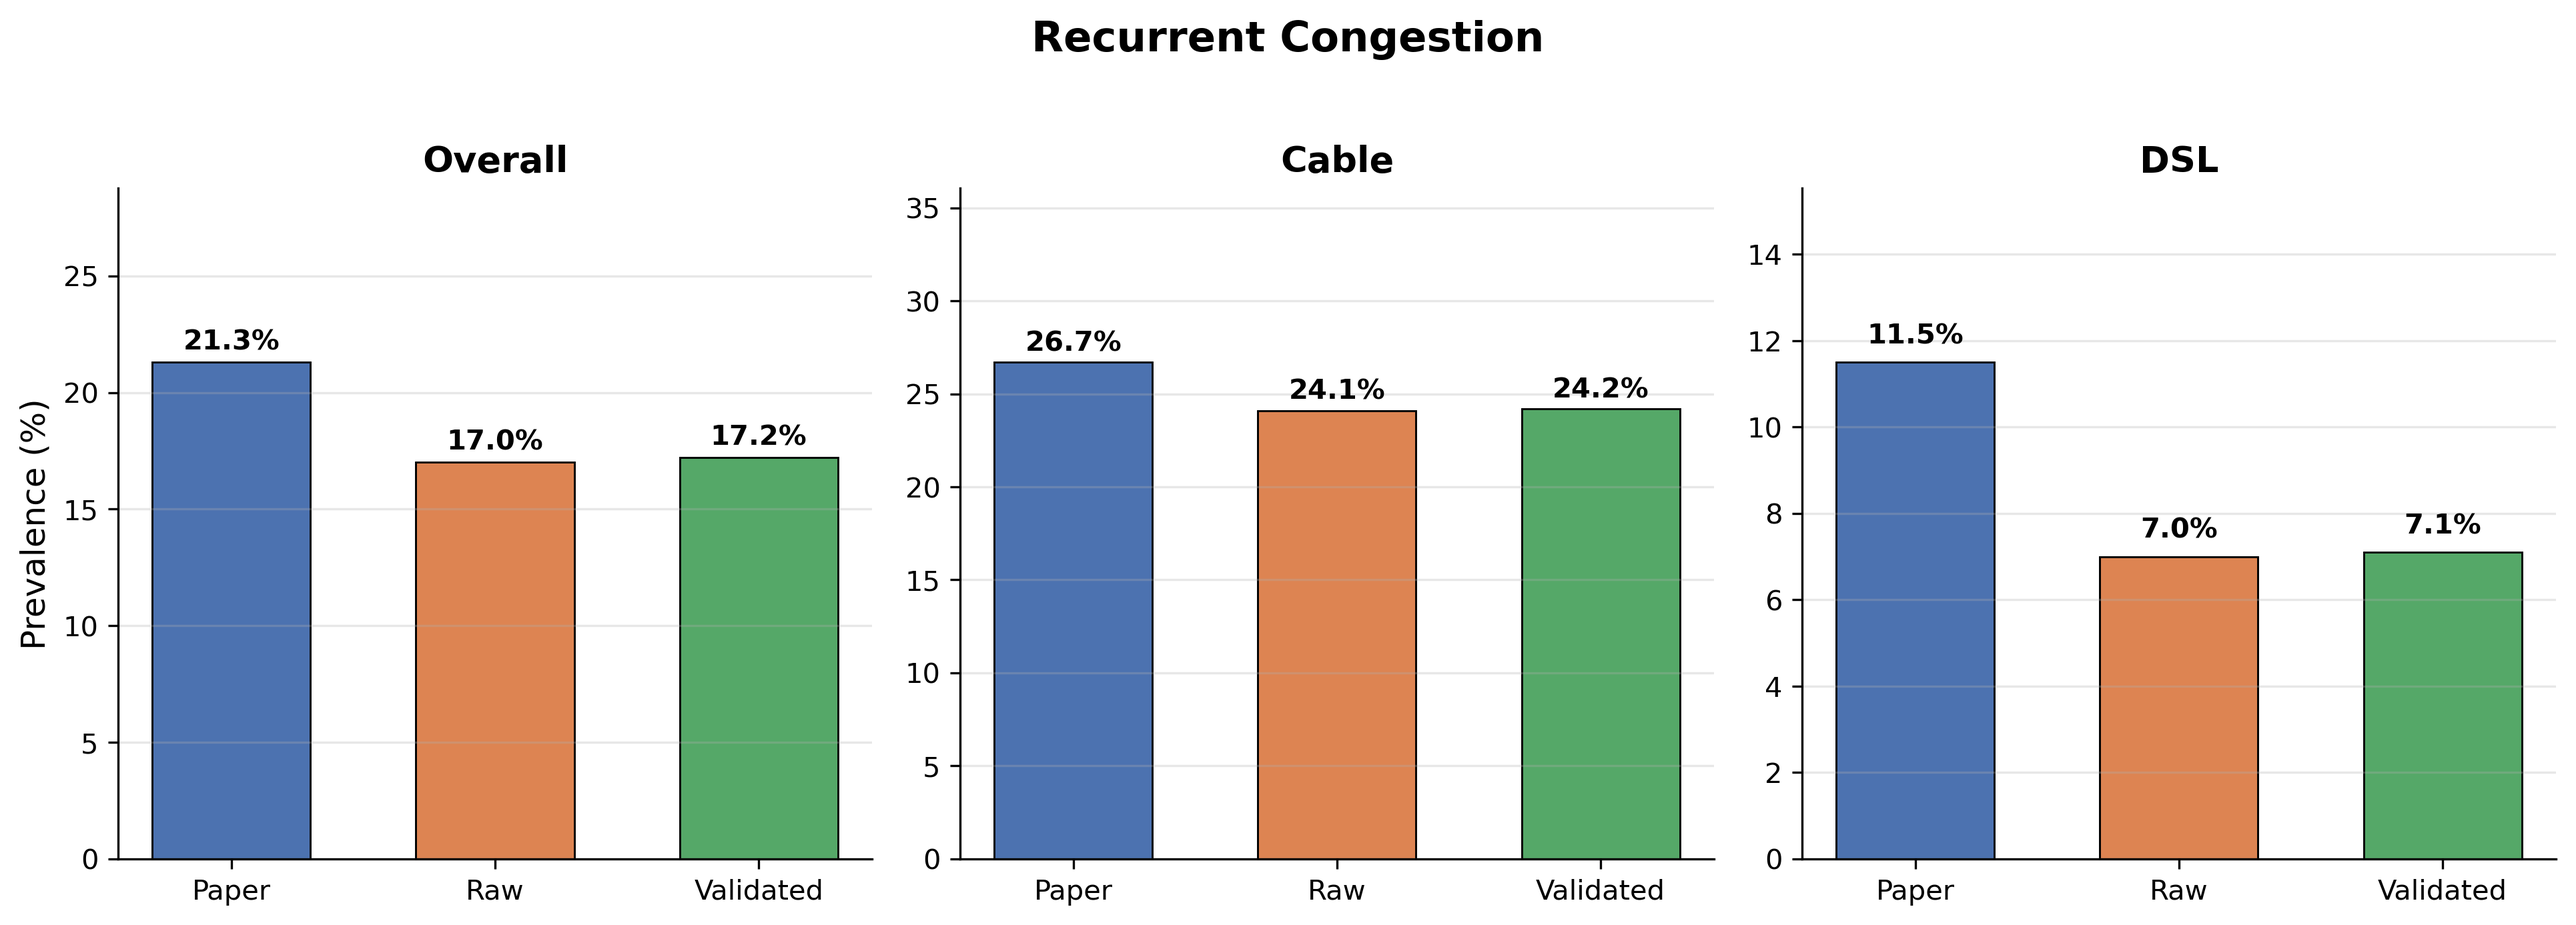
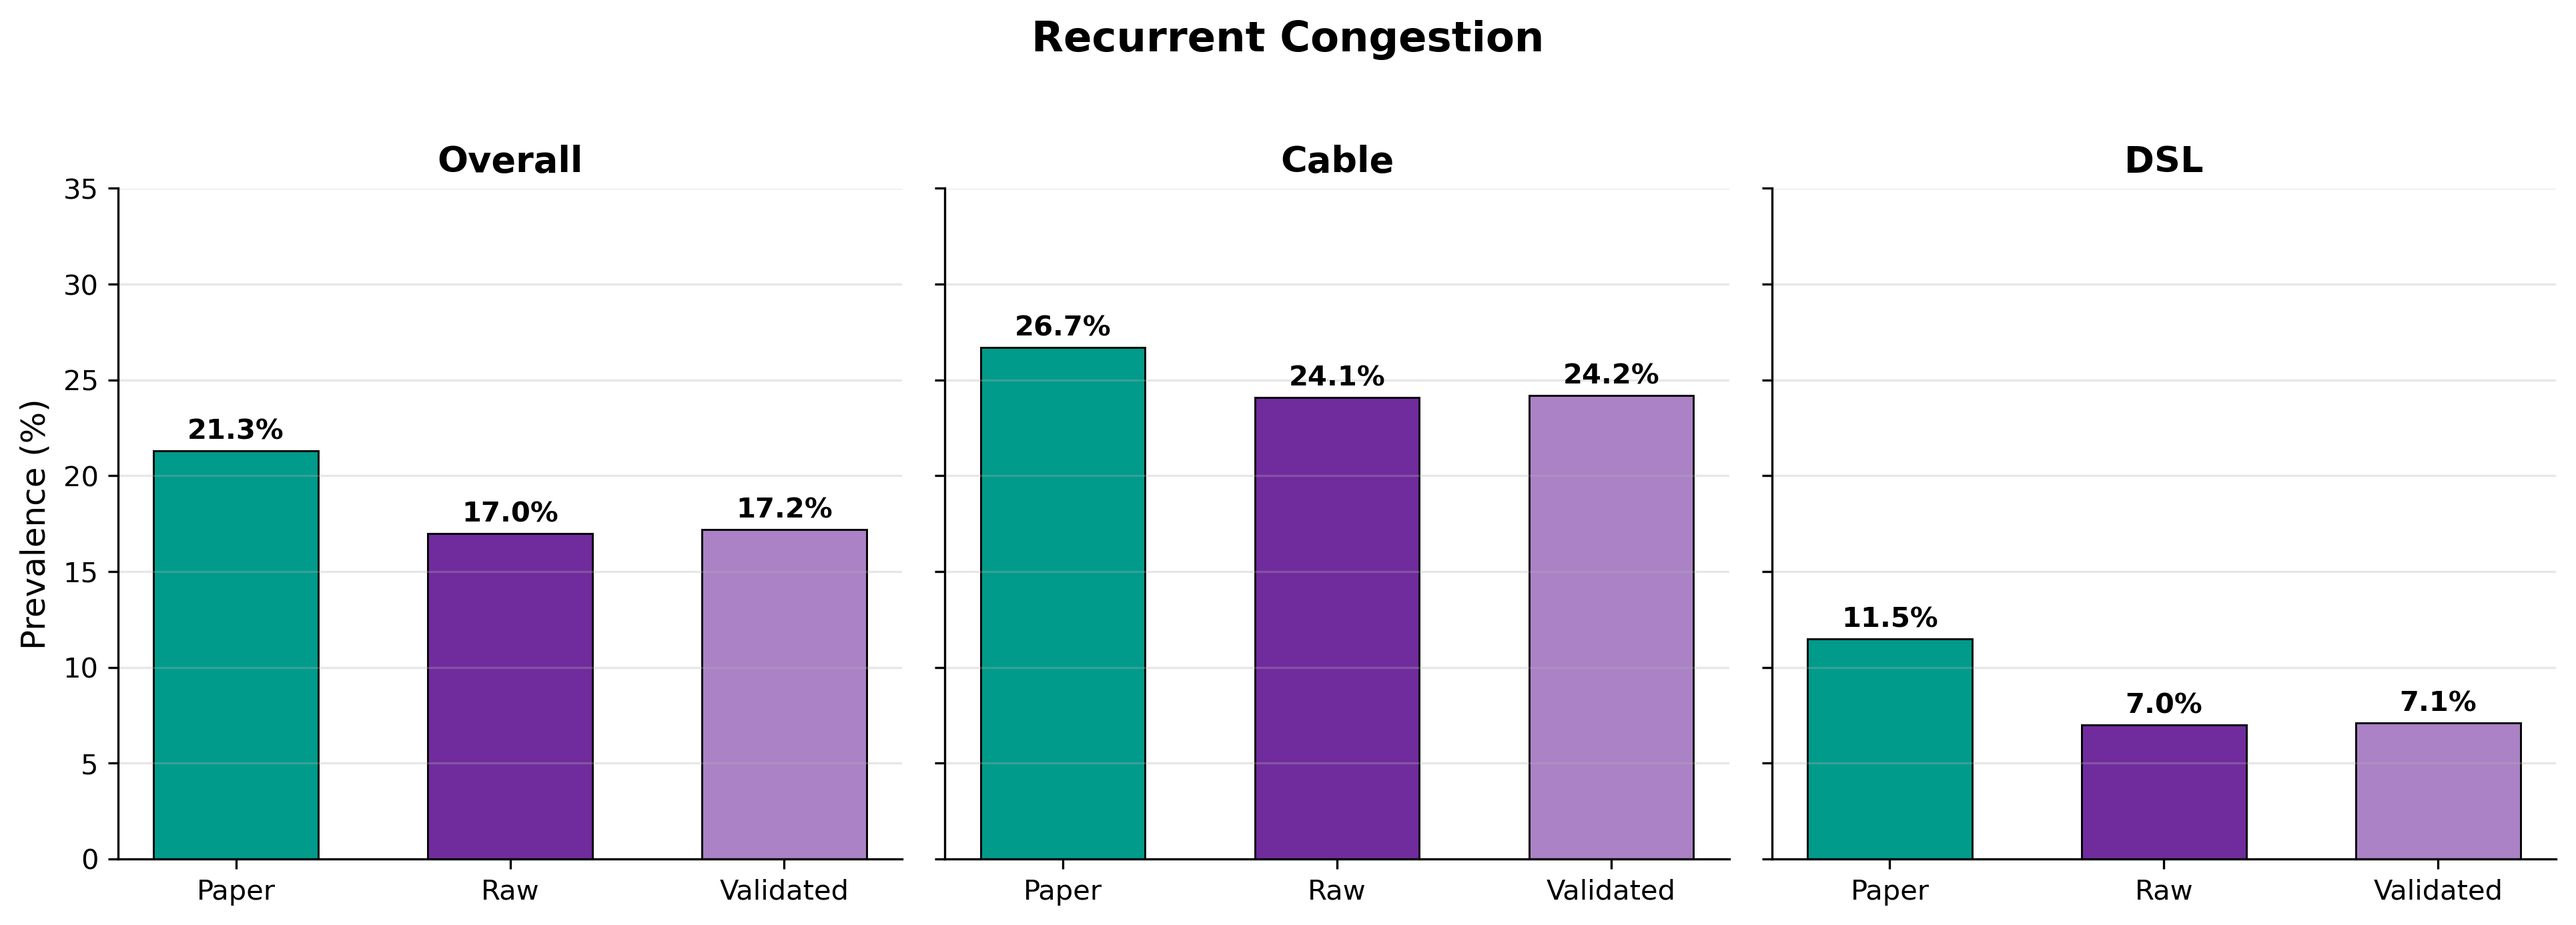
Update bar plots: NYU violet palette, shared y-axes (35% RC, 15% TIS)

diff --git a/output/plot_bars.py b/output/plot_bars.py
@@ -19,7 +19,7 @@ data = {
 
 sources = ["Paper", "Raw", "Validated"]
 techs = ["Overall", "Cable", "DSL"]
-bar_colors = ["#4C72B0", "#DD8452", "#55A868"]
+bar_colors = ["#009b8a", "#702b9d", "#ab82c5"]
 
 plt.rcParams.update({
     "font.family": "sans-serif",
@@ -34,7 +34,7 @@ plt.rcParams.update({
 })
 
 for metric_key, title in [("RC_pct", "Recurrent Congestion"), ("TIS_pct", "Congestion in Network Periphery")]:
-    fig, axes = plt.subplots(1, 3, figsize=(13, 4.5), sharey=False)
+    fig, axes = plt.subplots(1, 3, figsize=(13, 4.5), sharey=True)
 
     for ax, tech in zip(axes, techs):
         vals = [data[metric_key][s][tech] for s in sources]
@@ -45,8 +45,10 @@ for metric_key, title in [("RC_pct", "Recurrent Congestion"), ("TIS_pct", "Conge
                     f"{v:.1f}%", ha="center", va="bottom", fontsize=10, fontweight="bold")
 
         ax.set_title(tech, fontweight="bold")
-        ax.set_ylabel("Prevalence (%)" if tech == "Overall" else "")
-        ax.set_ylim(0, max(vals) * 1.35)
+        if tech == "Overall":
+            ax.set_ylabel("Prevalence (%)")
+        ymax = 35 if metric_key == "RC_pct" else 15
+        ax.set_ylim(0, ymax)
         ax.spines["top"].set_visible(False)
         ax.spines["right"].set_visible(False)
         ax.grid(axis="y", alpha=0.3)
